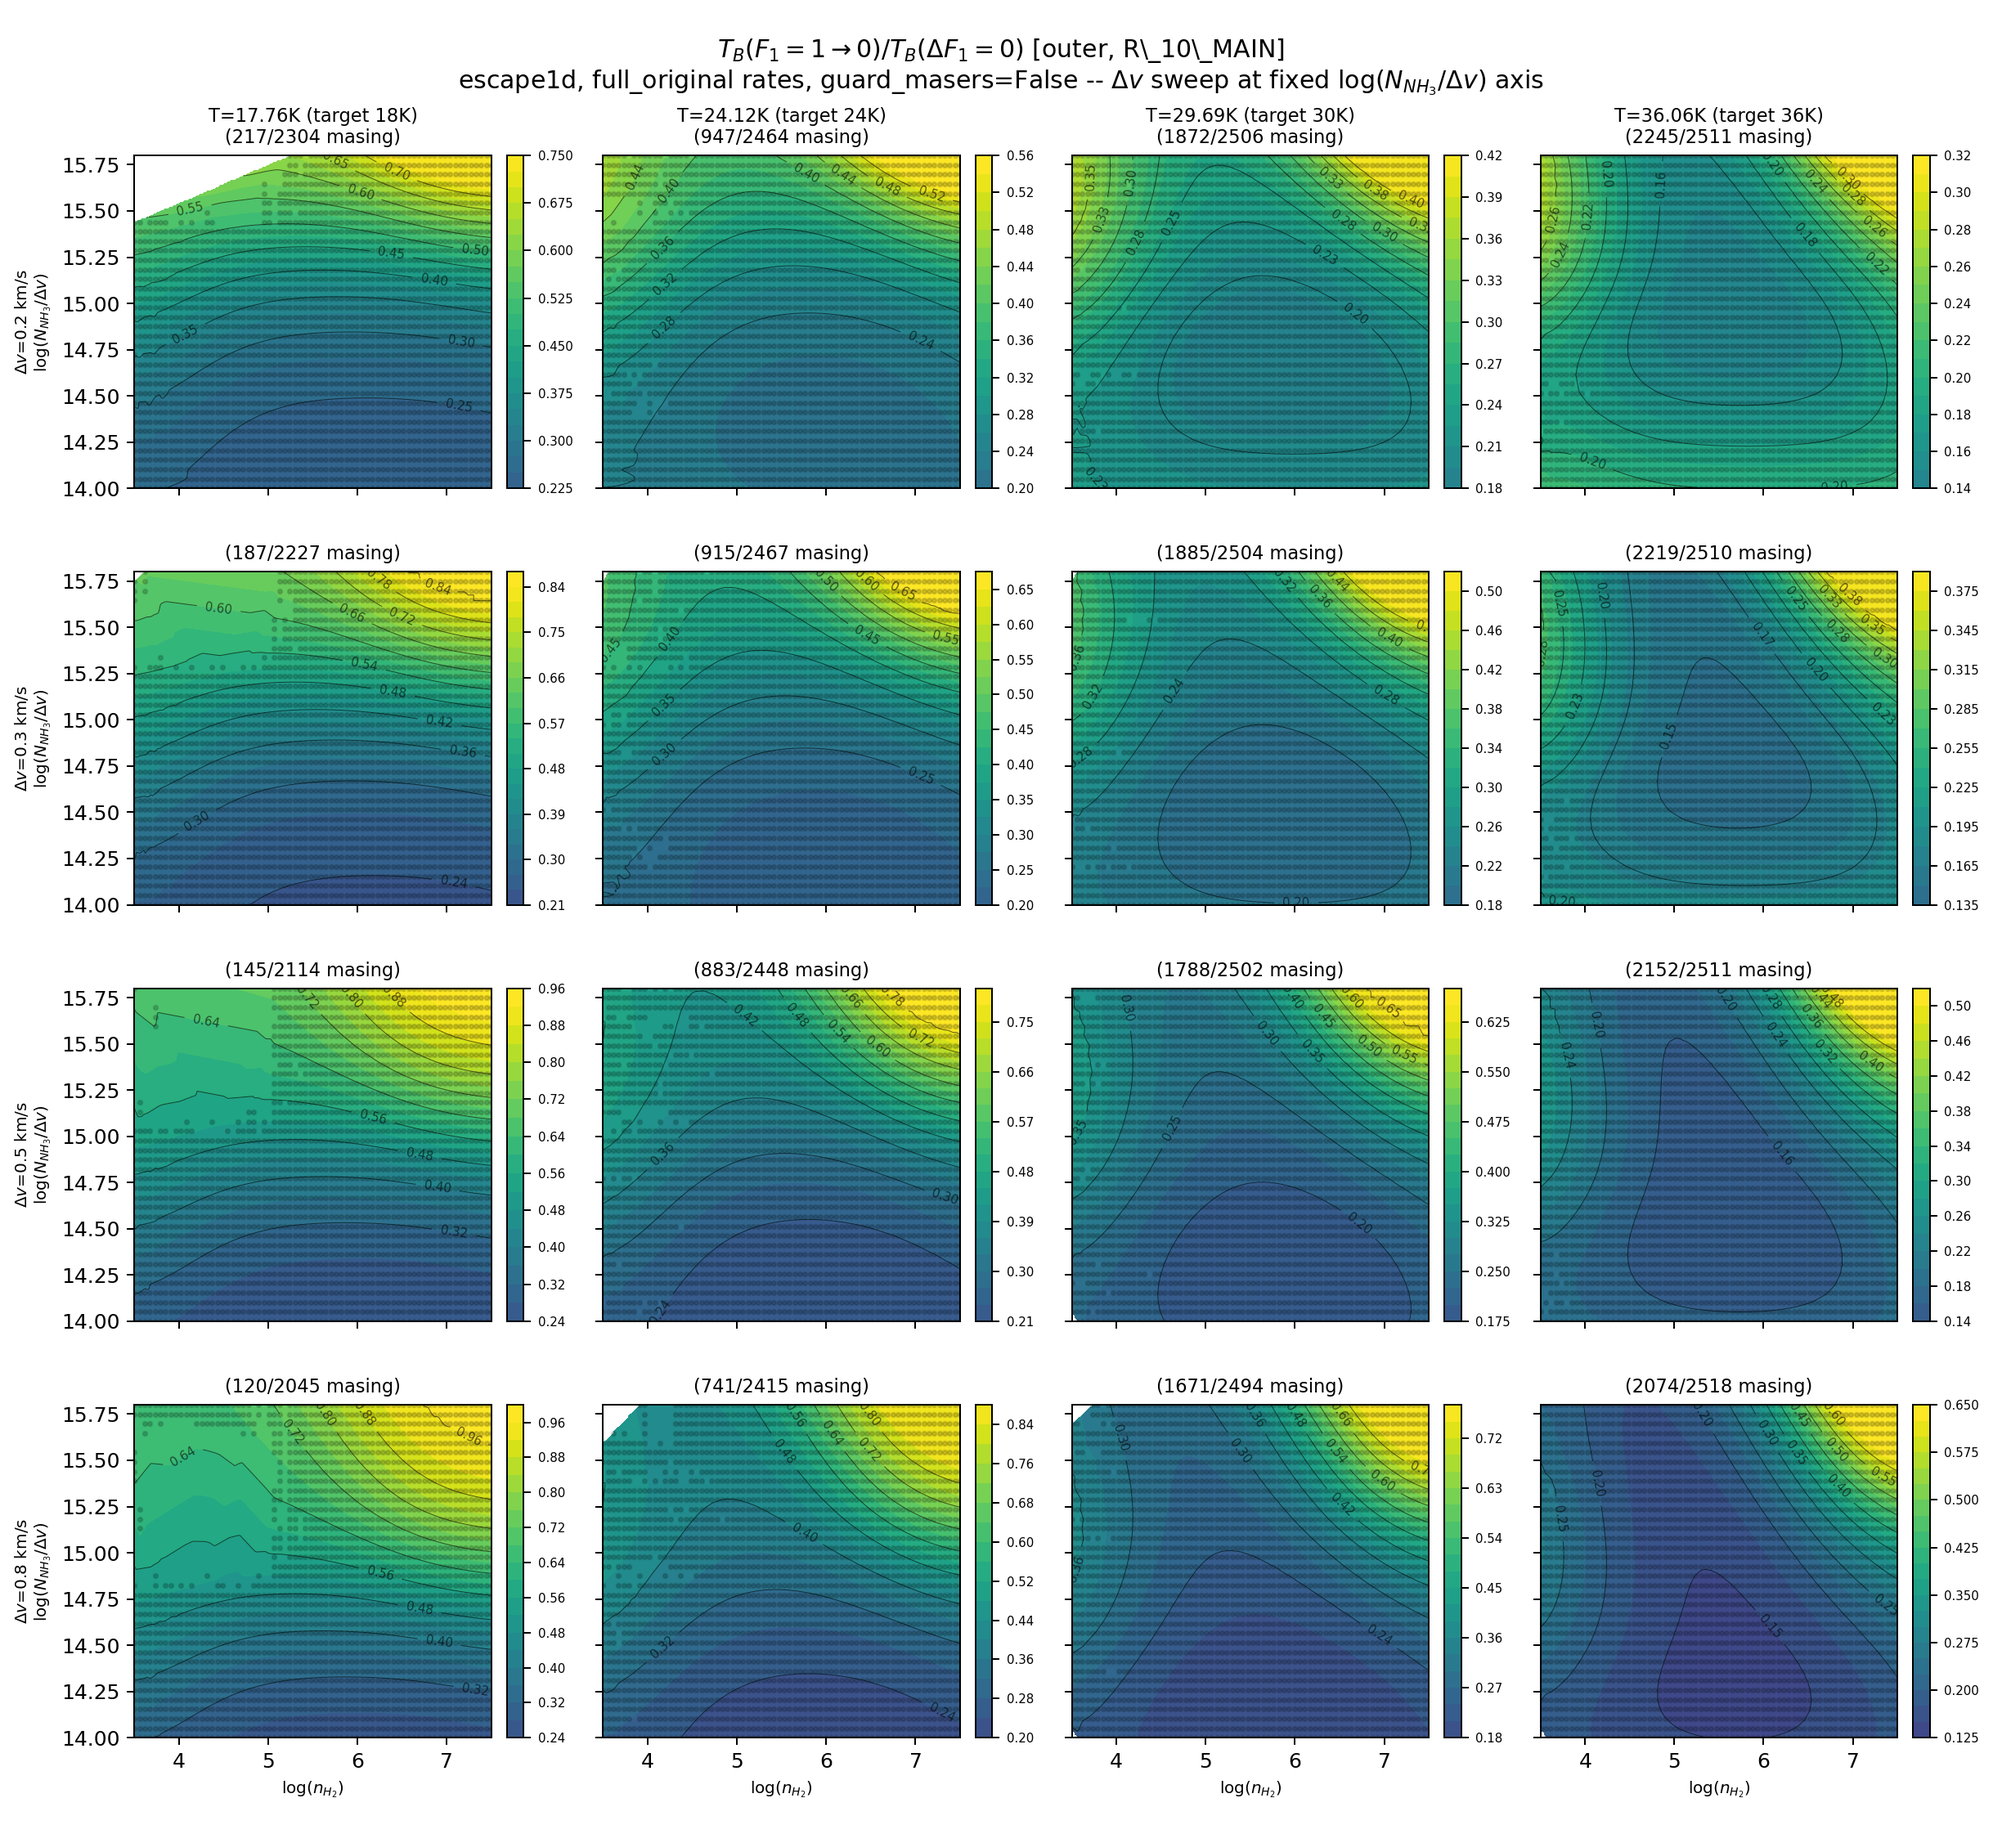
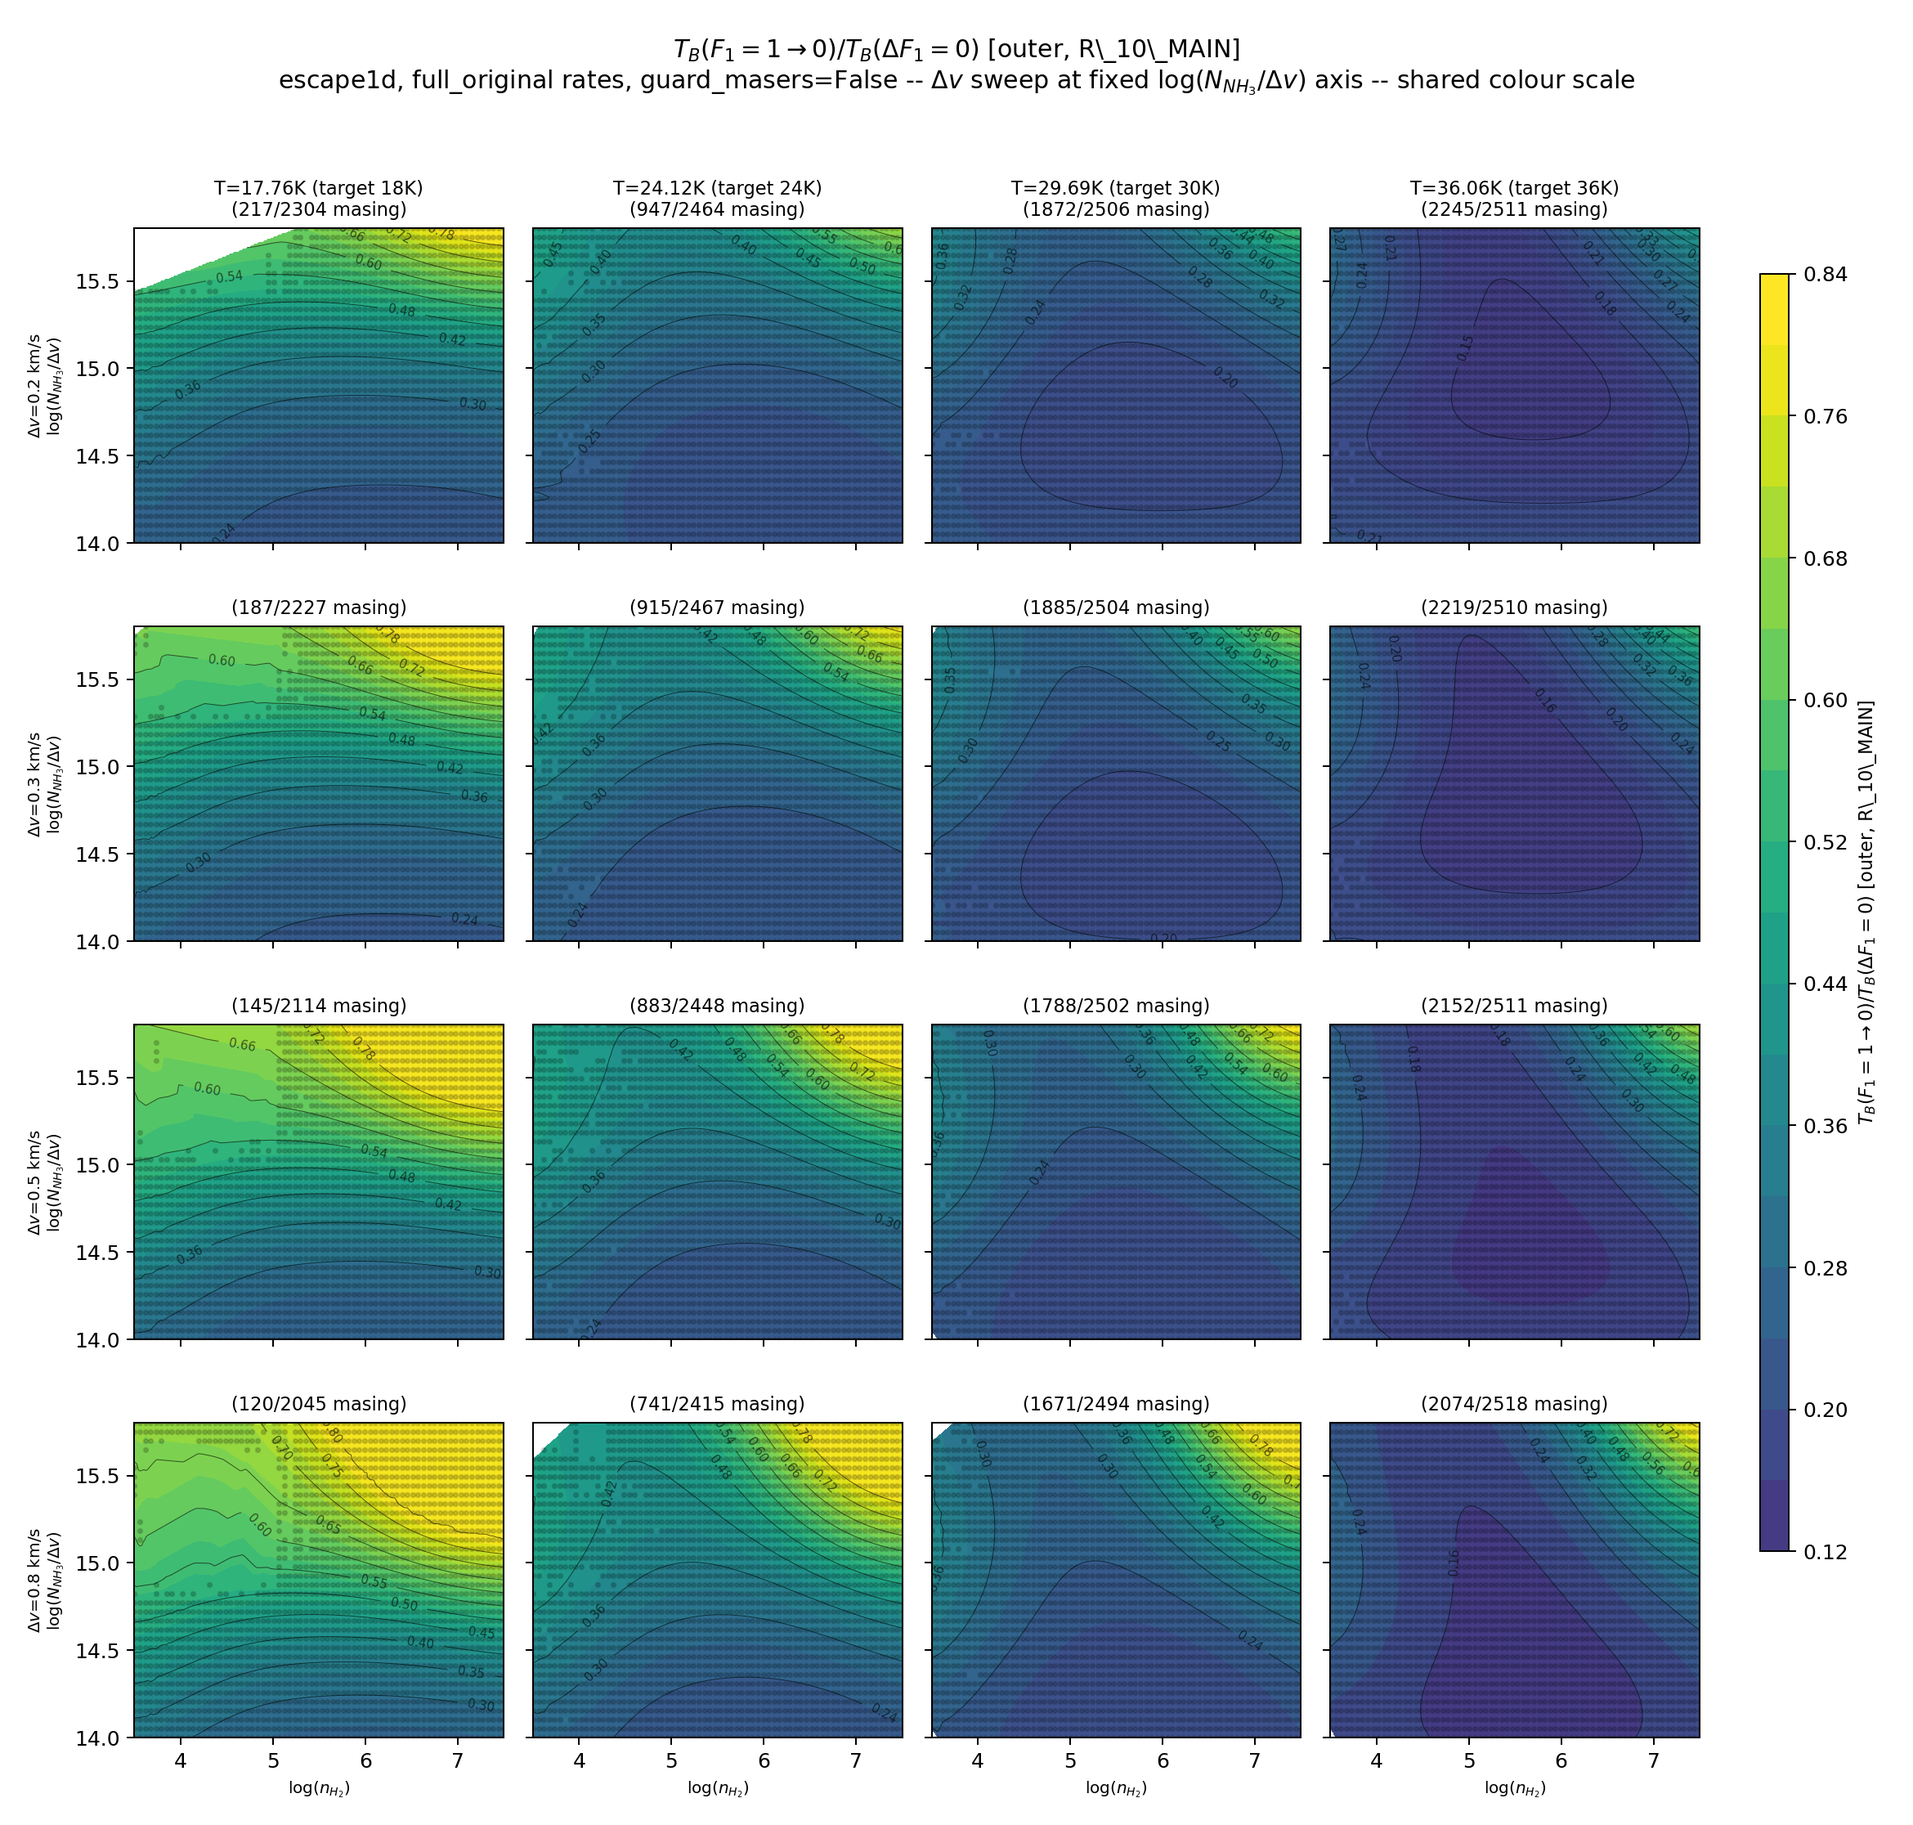
Use a shared color scale across the R_10_MAIN dv-sweep contour panels
contour_panel() (reproduce_fig4_escape1d.py) gains optional vmin/vmax
and draw_colorbar params, defaulting to the existing per-panel
independent-percentile behavior unchanged. fig4_r10_dv_sweep.py now
pools R_10 values across all 16 (dv, T) panels to fix one 2nd-98th
percentile colour range for the whole figure, with a single shared
colorbar, so color is directly comparable across Delta_v and
temperature instead of each panel re-normalizing independently.

diff --git a/production/tgs/modelling/stutzki85/fig4_r10_dv_sweep.py b/production/tgs/modelling/stutzki85/fig4_r10_dv_sweep.py
@@ -53,28 +53,53 @@ def main():
         for dv, df in dfs.items():
             print(f"rates={rates} dv={dv}: {len(df)} converged rows ({df['any_maser'].mean():.1%} masing)")
 
-        fig, axes = plt.subplots(len(DVS), len(TEMPS), figsize=(3.4 * len(TEMPS), 3.1 * len(DVS)),
-                                  sharex=True, sharey=True)
-        for i, dv in enumerate(DVS):
+        # snap each (dv, T_target) to the nearest available fine-grid T once,
+        # and pool every panel's R_10 values to fix ONE shared colour scale
+        # across the whole figure (2nd-98th percentile of the pooled data,
+        # same floor-at-0.0 convention as contour_panel's own per-panel default)
+        panels = {}
+        pooled = []
+        for dv in DVS:
             df = dfs[dv]
             T_axis = np.sort(df['T_cloud'].unique())
-            for j, T_target in enumerate(TEMPS):
-                ax = axes[i, j]
-                # fine grid's T axis is a 50-pt linspace(9,48) -- doesn't land on
-                # round numbers the way the coarse grid does, so snap to nearest
+            for T_target in TEMPS:
                 T_actual = T_axis[np.argmin(np.abs(T_axis - T_target))]
                 df_T = df[np.isclose(df['T_cloud'], T_actual)]
+                panels[(dv, T_target)] = (T_actual, df_T)
+                vals = df_T[COL].values
+                pooled.append(vals[np.isfinite(vals)])
+        pooled = np.concatenate(pooled)
+        vmin, vmax = np.percentile(pooled, [2, 98])
+        vmin = min(vmin, 0.0)
+        print(f"shared colour scale for {rates}: vmin={vmin:.3f} vmax={vmax:.3f} "
+              f"(pooled 2nd-98th percentile over all {len(DVS)}x{len(TEMPS)} panels)")
+
+        fig, axes = plt.subplots(len(DVS), len(TEMPS), figsize=(3.0 * len(TEMPS) + 1.0, 3.1 * len(DVS)),
+                                  sharex=True, sharey=True)
+        last_cf = None
+        for i, dv in enumerate(DVS):
+            for j, T_target in enumerate(TEMPS):
+                ax = axes[i, j]
+                T_actual, df_T = panels[(dv, T_target)]
                 title = f'T={T_actual:.2f}K (target {T_target:.0f}K)' if i == 0 else ''
-                contour_panel(fig, ax, df_T, COL, title, 'viridis', is_ratio=True)
+                cf = contour_panel(fig, ax, df_T, COL, title, 'viridis', is_ratio=True,
+                                    vmin=vmin, vmax=vmax, draw_colorbar=False)
+                if cf is not None:
+                    last_cf = cf
                 if j == 0:
                     ax.set_ylabel(rf'$\Delta v$={dv:.1f} km/s' + '\n' + r'log($N_{NH_3}/\Delta v$)', fontsize=8)
                 if i == len(DVS) - 1:
                     ax.set_xlabel(r'log($n_{H_2}$)', fontsize=8)
 
         plt.suptitle(f'{TITLE}\nescape1d, {rates} rates, guard_masers=False -- '
-                     r'$\Delta v$ sweep at fixed log($N_{NH_3}/\Delta v$) axis',
+                     r'$\Delta v$ sweep at fixed log($N_{NH_3}/\Delta v$) axis -- shared colour scale',
                      fontsize=12)
-        plt.tight_layout()
+        plt.tight_layout(rect=(0, 0, 0.90, 0.96))
+
+        cax = fig.add_axes((0.92, 0.15, 0.015, 0.7))
+        cb = fig.colorbar(last_cf, cax=cax)
+        cb.set_label(TITLE, fontsize=9)
+
         out_png = os.path.join(OUT_DIR, f'fig4_r10_dv_sweep_{rates}.png')
         plt.savefig(out_png, dpi=180)
         print(f"saved {out_png}\n")

diff --git a/production/tgs/modelling/stutzki85/reproduce_fig4_escape1d.py b/production/tgs/modelling/stutzki85/reproduce_fig4_escape1d.py
@@ -49,7 +49,8 @@ def load_grid(path):
     return df
 
 
-def contour_panel(fig, ax, df_T, col, title, cmap, is_ratio=True):
+def contour_panel(fig, ax, df_T, col, title, cmap, is_ratio=True, vmin=None, vmax=None,
+                   draw_colorbar=True):
     """2nd-98th percentile colour clipping, matching the house convention
     from reproduce_raw_fig4_full.py: clipped BEFORE griddata interpolation
     (not just at display time), so an extreme outlier near the masing
@@ -57,7 +58,13 @@ def contour_panel(fig, ax, df_T, col, title, cmap, is_ratio=True):
     itself and its neighbours -- only the clip boundary shows a step. Ratio
     panels always include the LTE/tau=0 floor (0.0) in the colour range even
     if the 2nd percentile sits above it, so the no-anomaly baseline stays
-    visible. Each panel gets its own colorbar (own percentile range)."""
+    visible.
+
+    By default each panel gets its own colorbar (own percentile range,
+    computed from that panel's own data). Pass explicit vmin/vmax (e.g. a
+    percentile range pooled across a whole figure's panels) to put multiple
+    panels on one shared colour scale instead -- draw_colorbar=False then
+    skips this panel's own colorbar so the caller can add one shared one."""
     x = df_T['log_n_H2'].values
     y = df_T['log_N_dv'].values
     raw = df_T[col].values
@@ -68,9 +75,12 @@ def contour_panel(fig, ax, df_T, col, title, cmap, is_ratio=True):
                 ha='center', va='center', transform=ax.transAxes)
         ax.set_title(title, fontsize=10)
         return
-    lo, hi = np.percentile(raw, [2, 98])
-    if is_ratio:
-        lo = min(lo, 0.0)
+    if vmin is None or vmax is None:
+        lo, hi = np.percentile(raw, [2, 98])
+        if is_ratio:
+            lo = min(lo, 0.0)
+    else:
+        lo, hi = vmin, vmax
     z = np.clip(raw, lo, hi)
     gx = np.linspace(x.min(), x.max(), 200)
     gy = np.linspace(y.min(), y.max(), 200)
@@ -80,8 +90,9 @@ def contour_panel(fig, ax, df_T, col, title, cmap, is_ratio=True):
     cs = ax.contour(GX, GY, GZ, levels=10, colors='k', linewidths=0.4, alpha=0.6)
     ax.clabel(cs, inline=True, fontsize=6, fmt='%.2f')
     ax.scatter(x, y, s=4, c='k', alpha=0.15)
-    cb = fig.colorbar(cf, ax=ax, fraction=0.046, pad=0.04)
-    cb.ax.tick_params(labelsize=6)
+    if draw_colorbar:
+        cb = fig.colorbar(cf, ax=ax, fraction=0.046, pad=0.04)
+        cb.ax.tick_params(labelsize=6)
     n_maser = int(df_T['any_maser'].values[valid].sum())
     ax.set_title(title + (f'\n({n_maser}/{len(x)} masing)' if n_maser else ''), fontsize=9)
     return cf
